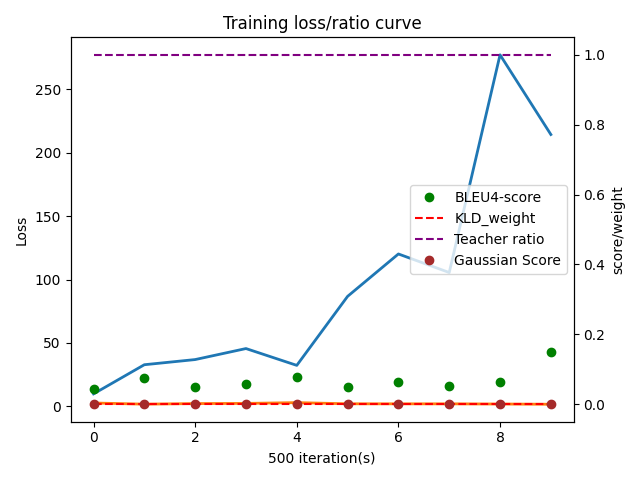
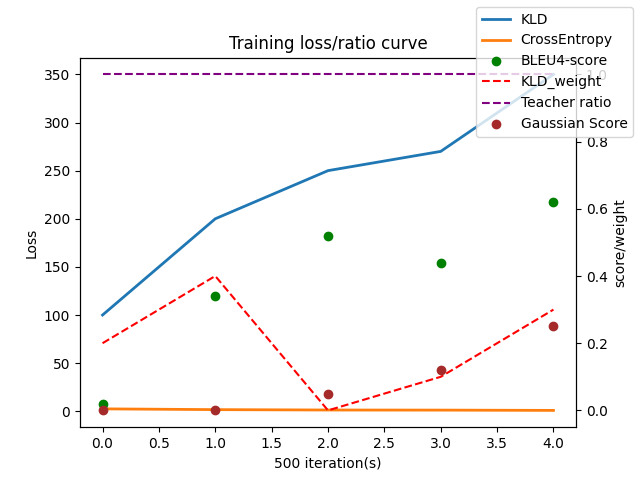
fix legend problem

diff --git a/graph.py b/graph.py
@@ -14,7 +14,6 @@ def draw_figure(points: int, data_dic: dict):
     fig, ax1 = plt.subplots()
     plt.title('Training loss/ratio curve')
     plt.xlabel('500 iteration(s)')
-    ax2 = ax1.twinx()
 
     x_axis = range(points)
 
@@ -23,6 +22,7 @@ def draw_figure(points: int, data_dic: dict):
     ax1.plot(x_axis, data_dic['entropy'], label='CrossEntropy', linewidth=2)
     ax1.tick_params(axis='y')
 
+    ax2 = ax1.twinx()
     ax2.set_ylabel('score/weight')
     ax2.plot(x_axis, data_dic['bleu'], 'ro', label='BLEU4-score', color='green')
     ax2.plot(x_axis, data_dic['kld_weight'], label='KLD_weight', color='red', linestyle='--')
@@ -30,8 +30,8 @@ def draw_figure(points: int, data_dic: dict):
     ax2.plot(x_axis, data_dic['gau'], 'ro', label='Gaussian Score', color='brown')
     ax2.tick_params(axis='y')
 
-    fig.tight_layout()
-    plt.legend()
+    # fig.tight_layout()
+    fig.legend()
     # plt.show()
     plt.savefig('train_figure1.png')
 
@@ -45,7 +45,7 @@ if __name__ == "__main__":
         'tf_ratio': [1, 1, 1, 1, 1],
         'gau': [0, 0, 0.05, 0.12, 0.25]
     }
-    # draw_figure(5, dic)
+    draw_figure(5, dic)
 
     # f = open('test', 'wb')
     # pickle.dump(dic, f)
